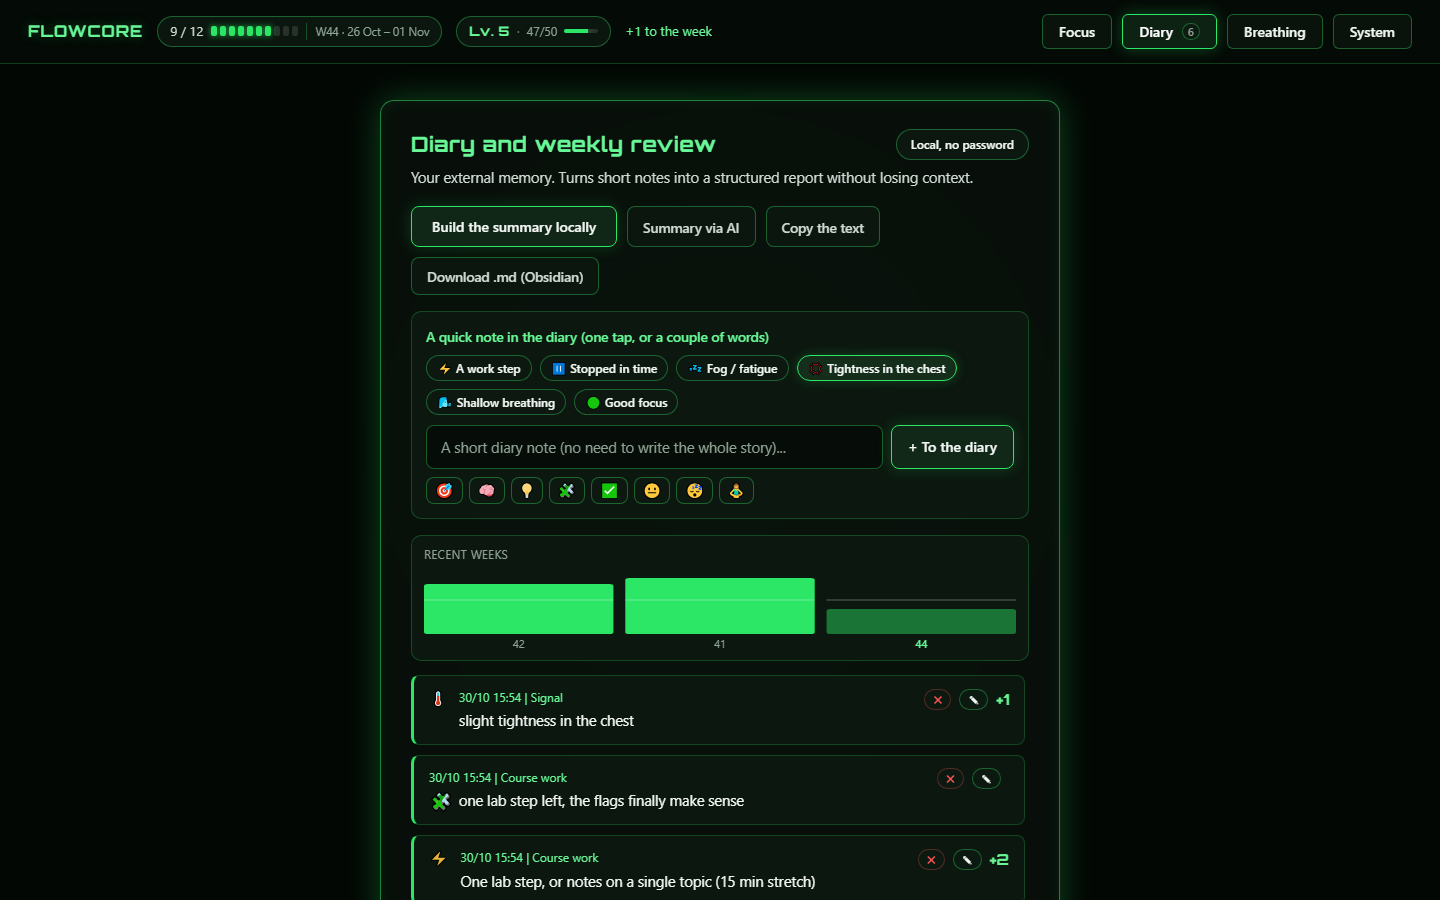
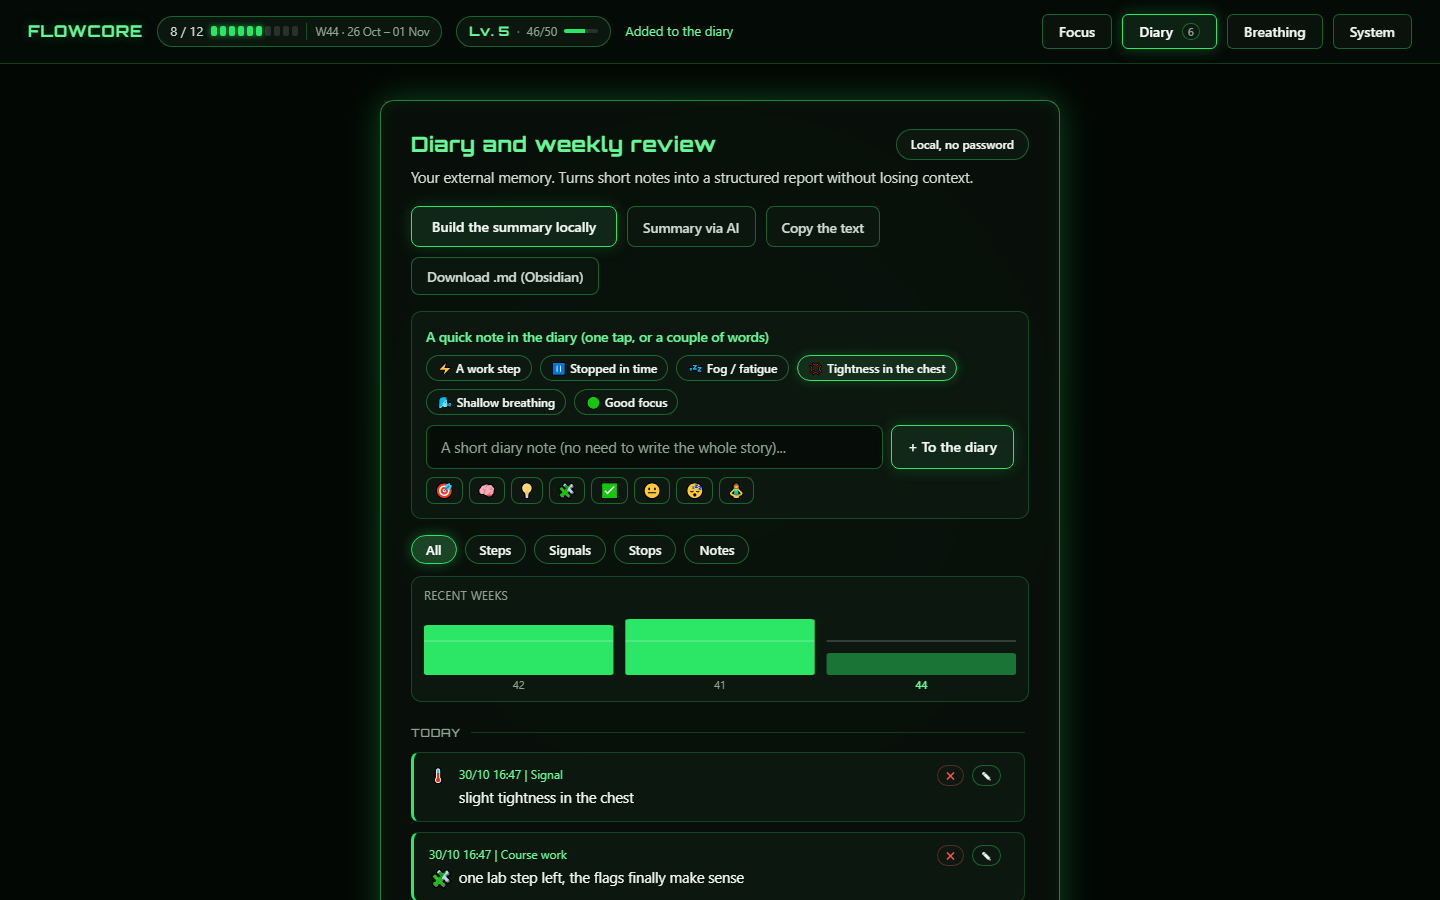
docs(flowcore): the READMEs describe the honest score, the diary days and the bar
Both languages say that chips and notes are memory without points, that the
diary groups by day and filters by type, and that the phone bar takes its own
place instead of covering buttons. The check count follows the suite, and the
diary and phone screenshots show the new list.

Changed region(s): [[0.2812, 0.5911, 0.7188, 0.9956], [0.4375, 0.0311, 0.5, 0.0622]]

diff --git a/README.ru.md b/README.ru.md
@@ -27,9 +27,9 @@
 
 **Заметка прямо у задачи.** Карандаш рядом с задачей открывает строку на месте, с восемью эмодзи, которые вставляются в текст. Заметка ложится в дневник под названием сферы и очков не даёт: это память, а не выполненный шаг. Ряд эмодзи необязателен и выключается в «Системе»; в быстрой пометке дневника те же восемь знаков.
 
-**Быстрая пометка в дневнике и маленький значок в каждой строке.** Шесть чипов — рабочий шаг, вовремя остановился, туман или усталость, ком в груди, поверхностное дыхание, хороший фокус — пишут запись одним тапом и сразу со своим типом, чтобы отчёт для врача не путал шаги, телесные сигналы и ранние остановки. У каждой строки есть маленький значок типа (шаг, сигнал, остановка, заметка), если у записи нет своего эмодзи. Отдельная карточка «Своими словами» убрана: она делала ту же работу, что этот блок, но платила за то же действие по-другому, а писать в одном месте достаточно.
+**Быстрая пометка в дневнике и маленький значок в каждой строке.** Шесть чипов — рабочий шаг, вовремя остановился, туман или усталость, ком в груди, поверхностное дыхание, хороший фокус — пишут запись одним тапом и сразу со своим типом, чтобы отчёт для врача не путал шаги, телесные сигналы и ранние остановки. У каждой строки есть маленький значок типа (шаг, сигнал, остановка, заметка), если у записи нет своего эмодзи. Отдельная карточка «Своими словами» убрана: она делала ту же работу, что этот блок, но платила за то же действие по-другому, а писать в одном месте достаточно. Ни чипы, ни набранная пометка очков не дают: ощущение — это описание, а не награда за описание. Очки приносит только подтверждённое время, иначе десять секунд тапов стоили бы дороже получаса работы.
 
-**На телефоне — две сводки.** Ряд длительностей таймера и три чипа первого шага живут за кнопкой с текущей длительностью и «Первый шаг ▾»: раскрываются на месте, закрываются после выбора, а сводка держит текущее значение. Цели касания выросли до 40 px, главное действие — до 44, чтобы в плохой день не приходилось прицеливаться. Сами четыре раздела переехали в полосу высотой 54 px внизу, текущий отмечен линией: шапка больше не липнет к верху, а новый раздел открывается с начала. У вкладки дневника не цифра, а точка: она загорается, только когда с прошлого захода туда что-то записалось, и гаснет, как только дневник открыт.
+**На телефоне — две сводки.** Ряд длительностей таймера и три чипа первого шага живут за кнопкой с текущей длительностью и «Первый шаг ▾»: раскрываются на месте, закрываются после выбора, а сводка держит текущее значение. Цели касания выросли до 40 px, главное действие — до 44, чтобы в плохой день не приходилось прицеливаться. Сами четыре раздела переехали в полосу высотой 54 px внизу, текущий отмечен линией: шапка больше не липнет к верху, а новый раздел открывается с начала. Полоса занимает своё место в колонке, а не висит поверх содержимого, поэтому ни одна кнопка не оказывается наполовину под ней. У вкладки дневника не цифра, а точка: она загорается, только когда с прошлого захода туда что-то записалось, и гаснет, как только дневник открыт.
 
 **Мост после остановки.** Если остановился вчера — сверху появляется «вчера остановился на: …» и кнопка «начать 5 минут с этого места». Возврат в работу не требует вспоминать, где ты был.
 
@@ -45,7 +45,7 @@
 
 **Дыхание — две техники и фон.** «Спокойный выдох 4/6» на минуту и «Вздох на пять минут»: два вдоха носом и длинный выдох ртом — то, что снимает острую тревогу за пару циклов, когда минуты не хватает. Рядом — генератор коричневого шума с ползунком громкости: шум считается в браузере, ни файлов, ни сети. На телефоне звук обрывается, если погасить экран: это про пять-десять минут, а не про сон.
 
-**Дневник и выгрузка.** Быстрые пометки в один клик со значком типа в каждой строке, сводка локально, сводка через ИИ (если вписан свой ключ Gemini), копирование всего дневника текстом и экспорт недели в `.md` с YAML-заголовком — файл сразу ложится в Obsidian.
+**Дневник и выгрузка.** Быстрые пометки в один клик со значком типа в каждой строке, сгруппированные по дням под заголовками «Сегодня», «Вчера» и датами, фильтр по типу (шаги, сигналы, остановки, заметки) и список, который прокручивается вместе со страницей, а не живёт в собственном маленьком окне. Сводка локально, сводка через ИИ (если вписан свой ключ Gemini), копирование всего дневника текстом и экспорт недели в `.md` с YAML-заголовком — файл сразу ложится в Obsidian.
 
 **Свои сферы и тексты.** Первый запуск — три вопроса: чем занята голова, сколько очков в неделю, как назвать главное дело. Пропустить можно одной кнопкой: тогда ставятся две нейтральные сферы — дело и отдых, обе на языке интерфейса. Дальше названия, задачи и шаги правятся прямо в панели.
 
@@ -120,7 +120,7 @@ python serve.py --lan      # доступ в домашней сети по http
 node tests/run.js
 ```
 
-Сейчас **502 проверки**: недельный ролловер и архив, миграция старых бэкапов, замок, очки за подтверждённое время, дневной потолок и его снятие на день, уровень и скины, резерв, бонус отдыха, быстрые чипы и их типы, значок типа в строках дневника, сводки на телефоне, заметка к задаче и набор эмодзи, методики дыхания и фазы, шум с общим выключателем звука, экспорт в Markdown, редактор сфер, интервью первого запуска, словарь на четыре языка (все ключи из разметки и кода на месте, склонения через `Intl.PluralRules`). Тесты вырезают скрипт из настоящего `flowcore.html`, поэтому проверяют именно тот файл, который открывает браузер.
+Сейчас **519 проверок**: недельный ролловер и архив, миграция старых бэкапов, замок, очки за подтверждённое время, дневной потолок и его снятие на день, уровень и скины, резерв, бонус отдыха, быстрые чипы и их типы (и то, что очков они не дают), значок типа в строках дневника, дни и фильтр в дневнике, сводки на телефоне, нижняя полоса, которая стоит в колонке, а не поверх неё, заметка к задаче и набор эмодзи, методики дыхания и фазы, шум с общим выключателем звука, экспорт в Markdown, редактор сфер, интервью первого запуска, словарь на четыре языка (все ключи из разметки и кода на месте, склонения через `Intl.PluralRules`). Тесты вырезают скрипт из настоящего `flowcore.html`, поэтому проверяют именно тот файл, который открывает браузер.
 
 Те же проверки запускаются на GitHub Actions при каждом push и pull request — файл `.github/workflows/tests.yml`. Сборки нет, поэтому шагов всего три: checkout, Node, `node tests/run.js`.
 

diff --git a/README.md b/README.md
@@ -27,9 +27,9 @@ If you are in a hurry:
 
 **A note on the task itself.** The pencil next to the task opens a line right there, with eight emoji that insert into the text. The note lands in the diary under the area's name and gives no points: it is memory, not a finished step. The row of emoji is optional and switches off in System; the quick note in the diary offers the same eight signs.
 
-**A quick note in the diary, and a small mark on every row.** Six chips — a work step, stopped in time, fog or fatigue, tightness in the chest, shallow breathing, good focus — write an entry in one tap with its own type, so the doctor report keeps steps, body signals and early stops apart. Every row also carries a small type mark (a step, a signal, a stop, a note) whenever the entry has no emoji of its own. The separate "In your own words" card is gone: it did the same job as this block but paid differently for the same act, and one place to write is enough.
+**A quick note in the diary, and a small mark on every row.** Six chips — a work step, stopped in time, fog or fatigue, tightness in the chest, shallow breathing, good focus — write an entry in one tap with its own type, so the doctor report keeps steps, body signals and early stops apart. Every row also carries a small type mark (a step, a signal, a stop, a note) whenever the entry has no emoji of its own. The separate "In your own words" card is gone: it did the same job as this block but paid differently for the same act, and one place to write is enough. Neither the chips nor the typed note bring points: a feeling is a description, not a reward for describing it. Points come only from confirmed time, otherwise ten seconds of taps would be worth more than half an hour of work.
 
-**On a phone, two summary buttons.** The row of timer lengths and the three first-step chips fold behind a button with the current length and "First step ▾": they open in place, close after a choice, and the summary keeps the current value. Every target grows to 40 px, and the primary action to 44, so nothing has to be aimed at on a bad day. The four sections themselves move into a 54 px bar along the bottom, the current one marked by a line; the header stops sticking and a new section opens from the top. The diary tab carries a dot, not a number: it appears only when something was written since you last opened the diary, and goes out the moment you do.
+**On a phone, two summary buttons.** The row of timer lengths and the three first-step chips fold behind a button with the current length and "First step ▾": they open in place, close after a choice, and the summary keeps the current value. Every target grows to 40 px, and the primary action to 44, so nothing has to be aimed at on a bad day. The four sections themselves move into a 54 px bar along the bottom, the current one marked by a line; the header stops sticking and a new section opens from the top. The bar takes its own place in the column instead of floating above the content, so no button is ever half-hidden under it. The diary tab carries a dot, not a number: it appears only when something was written since you last opened the diary, and goes out the moment you do.
 
 **A bridge after stopping.** If you stopped yesterday, a line at the top says where, with one button that starts five minutes from that exact place. Coming back does not require remembering where you were.
 
@@ -45,7 +45,7 @@ If you are in a hurry:
 
 **Breathing: two techniques and a background.** "Calm exhale 4/6" runs for a minute. "A five-minute sigh" is two breaths in through the nose and one long breath out through the mouth, which is what takes the edge off acute anxiety when a minute is not enough. Next to it sits a brown noise generator with a volume slider. The noise is computed in the browser, so there are no files and no network. On a phone the sound stops when the screen locks, which makes this a tool for five or ten minutes, not for falling asleep.
 
-**Diary and export.** Notes in one tap with a type mark on every row, a summary built locally, an AI summary if you add your own Gemini key, the whole diary copied as text, and a week exported as `.md` with YAML front matter that Obsidian reads as is.
+**Diary and export.** Notes in one tap with a type mark on every row, grouped by day under "Today", "Yesterday" and every earlier date, with a filter by type (steps, signals, stops, notes) and a list that scrolls with the page instead of living in its own small window. A summary built locally, an AI summary if you add your own Gemini key, the whole diary copied as text, and a week exported as `.md` with YAML front matter that Obsidian reads as is.
 
 **Your own areas and wording.** The first run asks three questions: what is on your mind, how many points a week, what to call the main thing. One button skips all three and leaves two neutral areas, one thing of your own and rest, both in the interface language. Names, tasks and steps are edited in the panel afterwards.
 
@@ -120,7 +120,7 @@ On Windows, `FlowCore.cmd` does the same from a double click.
 node tests/run.js
 ```
 
-There are **502 checks**: week rollover and the archive, migration of older backups, the lock, points from confirmed time, the daily cap and lifting it for a day, level and skins, the reserve, the rest bonus, the quick chips and their types, the type mark in the diary rows, the phone summaries, the task note and its emoji set, breathing techniques and their phases, noise under the master sound switch, Markdown export, the area editor, the first-run interview, and the dictionary in four languages (every key from the markup and the code exists, plurals go through `Intl.PluralRules`). The tests cut the script out of the real `flowcore.html`, so they check the file the browser actually opens.
+There are **519 checks**: week rollover and the archive, migration of older backups, the lock, points from confirmed time, the daily cap and lifting it for a day, level and skins, the reserve, the rest bonus, the quick chips and their types and that they pay nothing, the type mark in the diary rows, the diary grouped by day and filtered by type, the phone summaries, the bottom bar staying in the column rather than over it, the task note and its emoji set, breathing techniques and their phases, noise under the master sound switch, Markdown export, the area editor, the first-run interview, and the dictionary in four languages (every key from the markup and the code exists, plurals go through `Intl.PluralRules`). The tests cut the script out of the real `flowcore.html`, so they check the file the browser actually opens.
 
 The same checks run on GitHub Actions for every push and pull request, see `.github/workflows/tests.yml`. There is no build, so the job is three steps.
 
